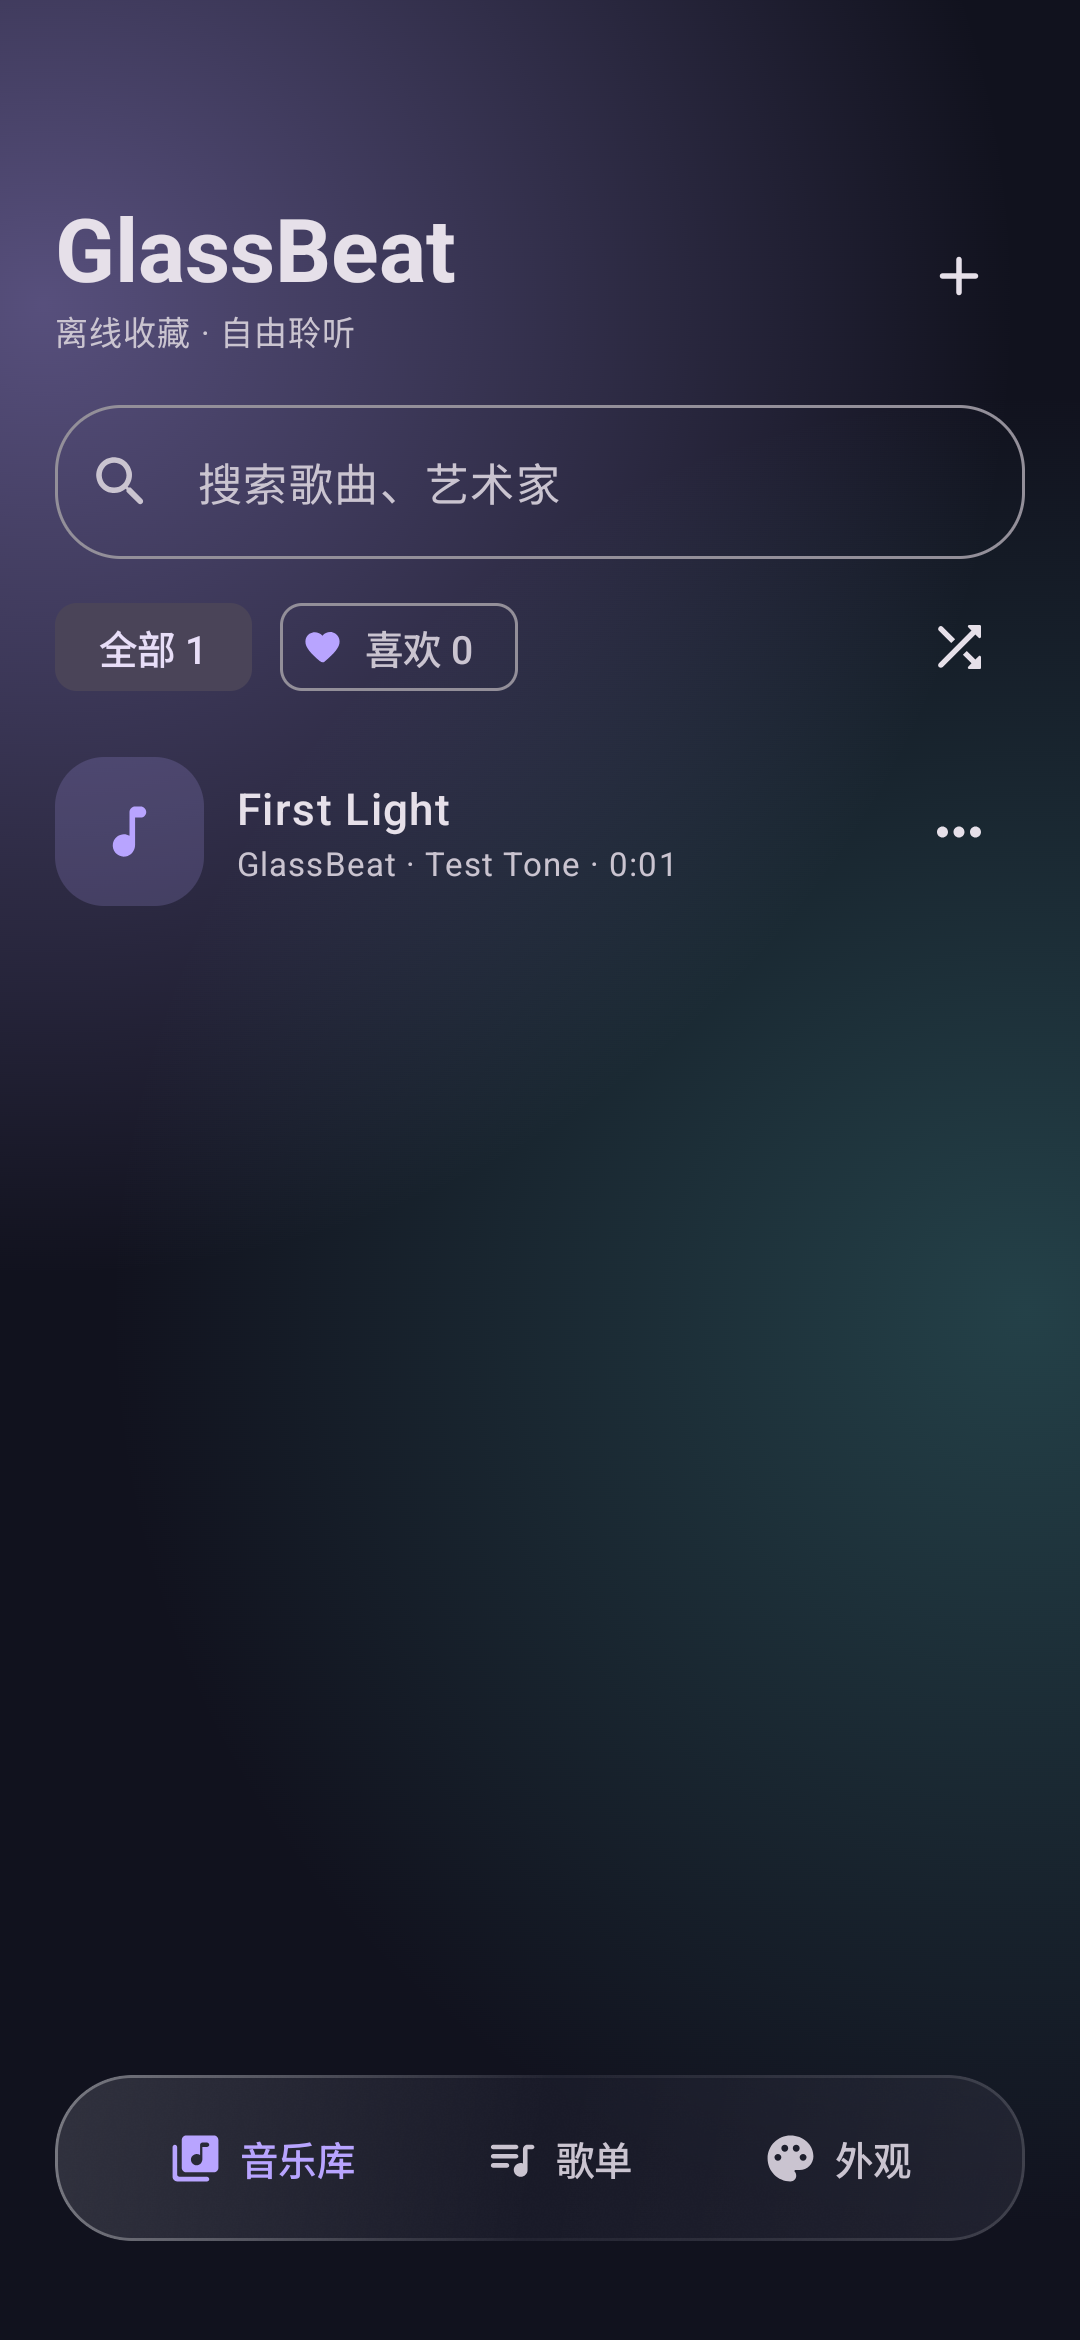
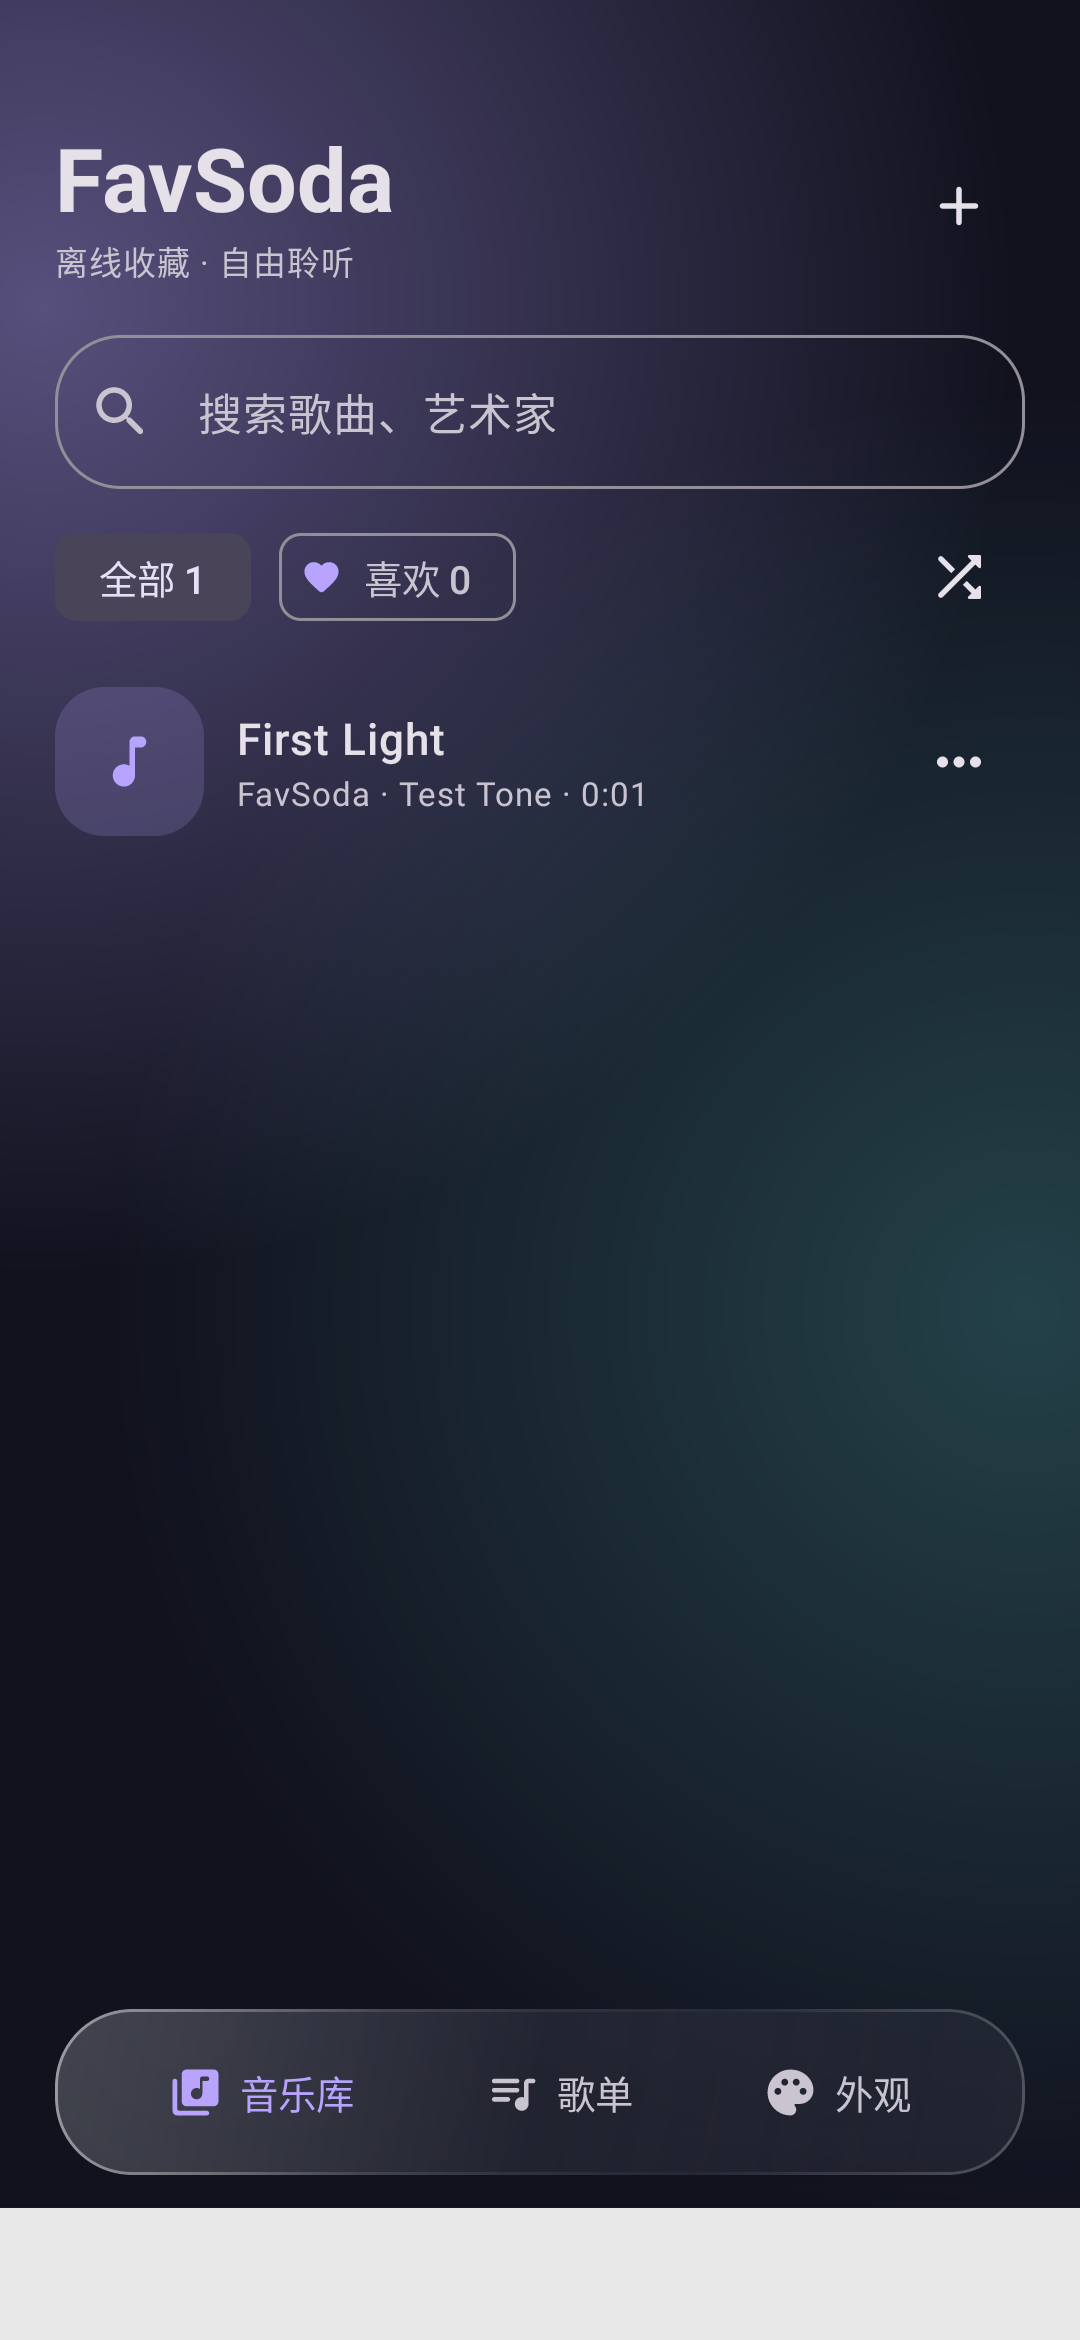
docs: publish FavSoda screenshots and release verification [skip ci]

diff --git a/docs/TESTING.md b/docs/TESTING.md
@@ -65,3 +65,13 @@
 - 正常帧循环使用 Compose 的无限动画策略，避免自动测试时钟持续等待进度刷新；暂停及低性能模式降低轮询频率。
 
 手机验收：播放一首较长歌曲，连续往返拖动并反复松手；分别测试播放中、暂停时、接近结尾、切歌后和低性能模式。检查手指跟随、松手回跳及实际音频跳转。设备回归不等同于对所有手机的帧耗时测量。
+
+
+## 1.0.4 发布验证结果
+
+- 26 项 JVM 测试、Debug/Release 静态检查与签名构建通过。
+- Android 10 / Android 15 各 15 项设备回归通过：[最终 CI](https://github.com/winner798/GlassBeat/actions/runs/42010365253)。
+- 新增进度拖动/单次跳转/异步确认/切歌重置/连续帧刷新测试，以及导入入口、队列标记与移除、长歌名菜单、取消及禁用按压测试。
+- 新版导入与歌曲菜单的设备截图已更新到 README，截图只使用测试素材。
+- 发布 APK 显示名称 FavSoda，包名 `io.github.glassbeat`、versionCode 14、版本 1.0.4；签名与旧版本一致。
+- FavSoda 与 GlassBeat 文件名的发布 APK 内容相同；旧文件名用于兼容已有更新器和稳定版清单。

diff --git a/CHANGELOG.md b/CHANGELOG.md
@@ -3,15 +3,11 @@
 ## 1.0.4
 
 - 播放、暂停与切歌状态通过播放器事件即时更新，减少按下按钮后等待图标变化的延迟。
-
 - 按钮与卡片加入轻压缩放、弹簧回弹和完成点击后的轻触反馈，遵循系统触感设置；关闭动效或低性能模式下关闭按压动画。
-
 - 重做播放队列、导入和歌曲菜单：底部玻璃面板、封面与摘要、当前播放标记、定位和移出队列。
 - 统一导入预览、重命名、歌单选择、删除确认与更新提示的玻璃弹窗。
 - 降低材质灰雾、增强边缘高光和柔和反射，透明度设置在兼容模式下也生效。
-
 - 应用更名为 FavSoda：桌面、系统分享、首页、关于与提示文案统一更新，保留包名、签名和音乐库以支持覆盖升级。
-
 - 全屏播放进度按屏幕帧刷新，低性能模式使用较低刷新频率。
 - 将拖动预览独立于封面与玻璃控件，拖动时不再触发整页重绘。
 - 松手后只提交一次跳转，并保留目标进度直到播放器同步，避免旧进度覆盖造成回跳。

diff --git a/README.md b/README.md
@@ -11,6 +11,10 @@
   <img src="docs/screenshots/themes.png" width="230" alt="玻璃主题编辑器" />
   <img src="docs/screenshots/player.png" width="230" alt="浅色全屏播放器" />
 </p>
+<p>
+  <img src="docs/screenshots/import-sheet.png" width="230" alt="玻璃导入面板" />
+  <img src="docs/screenshots/song-menu.png" width="230" alt="分组歌曲操作" />
+</p>
 
 ## 功能
 
